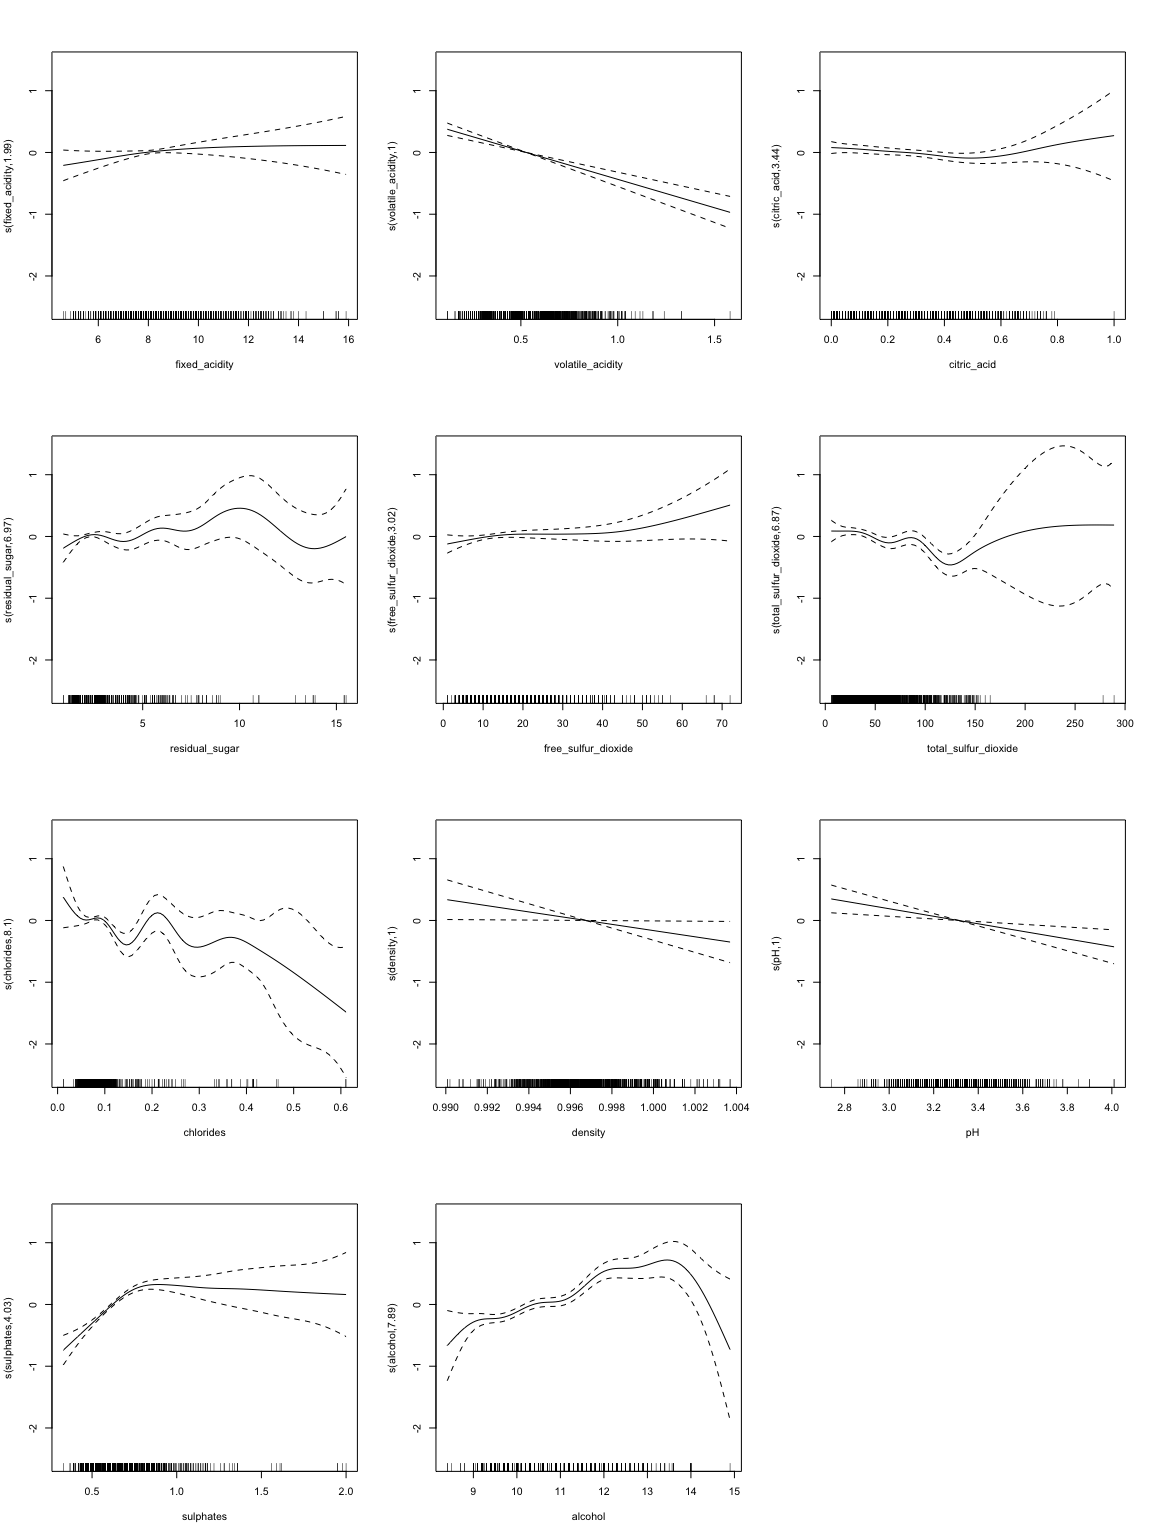
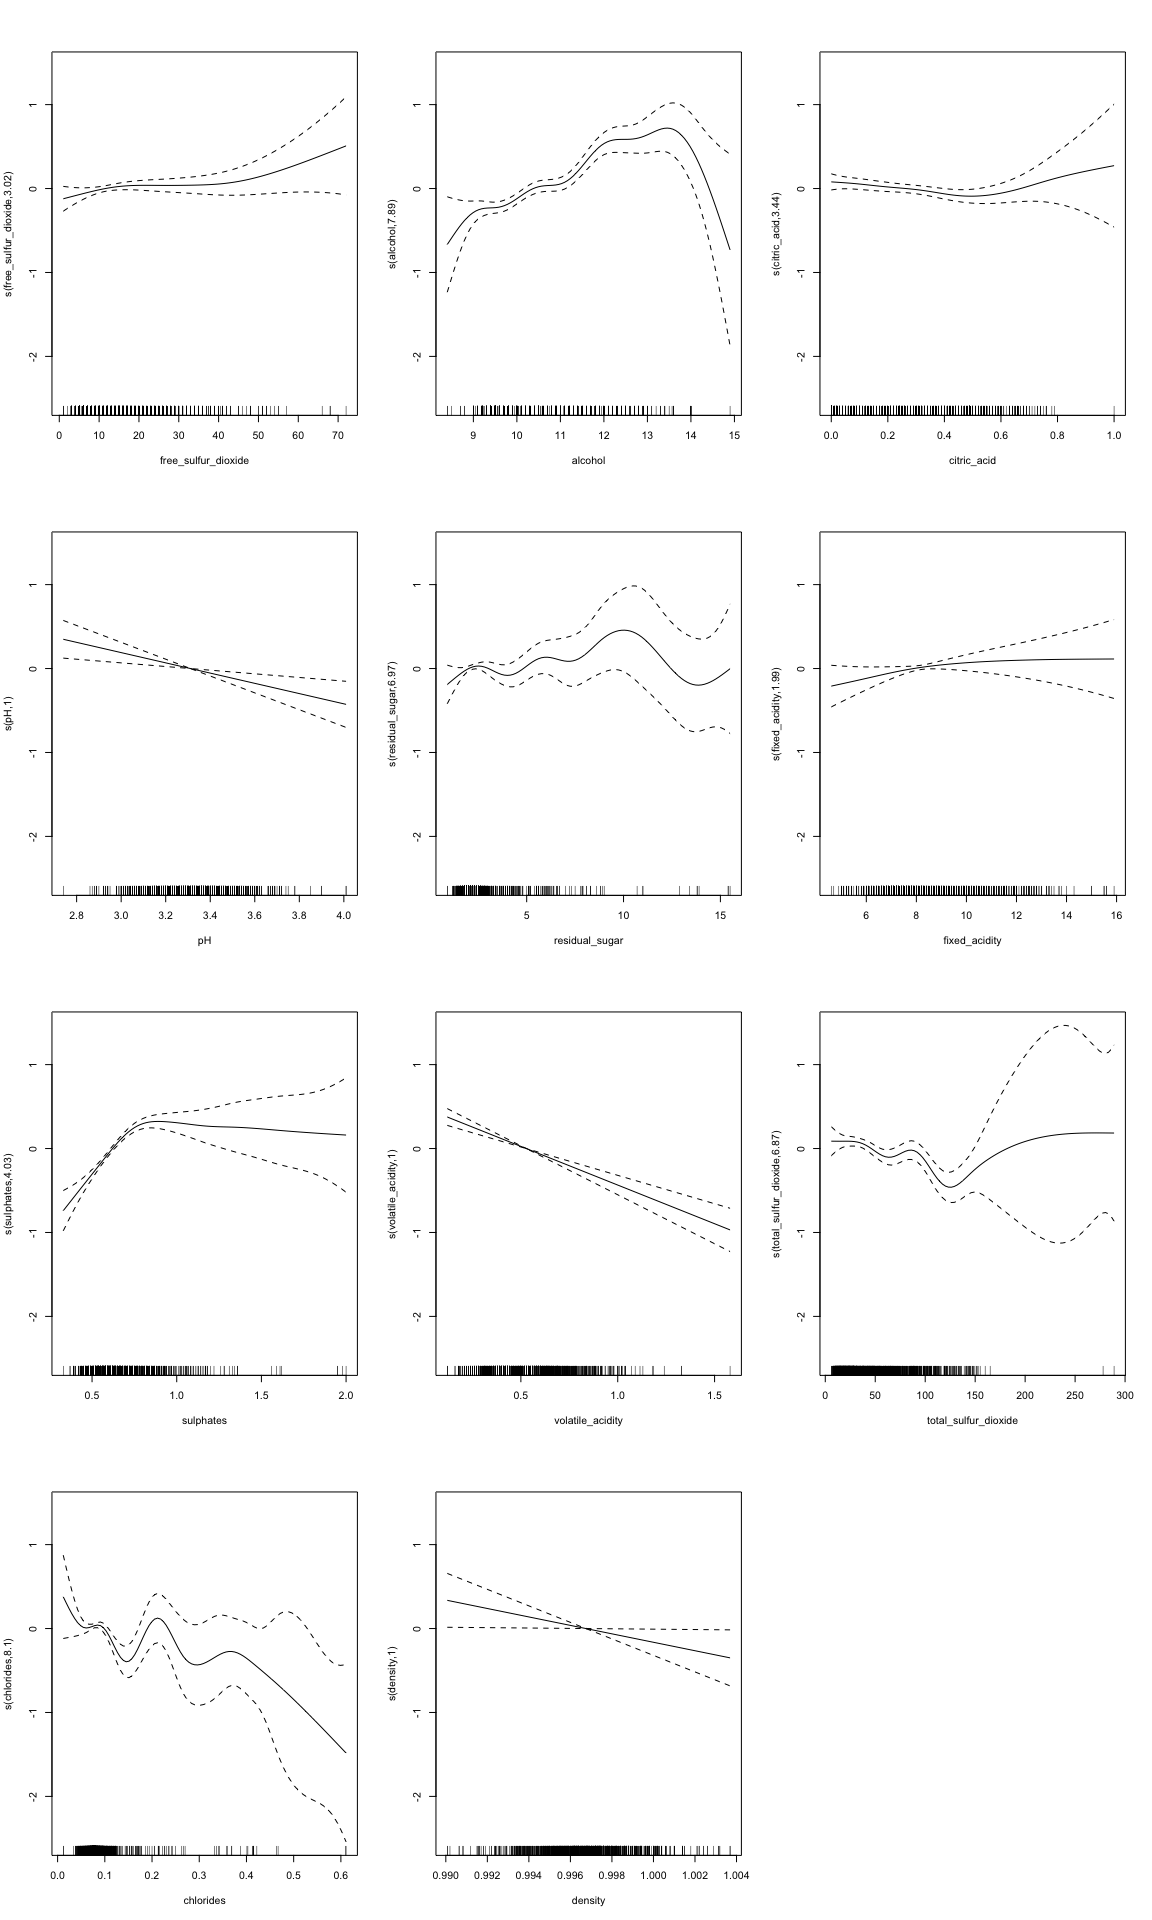
models code part

diff --git a/P8106_MP_xh2395.md b/P8106_MP_xh2395.md
@@ -336,49 +336,27 @@ wine_df1 = wine_df %>%
          free_sulfur_dioxide = `free sulfur dioxide`,
          total_sulfur_dioxide =`total sulfur dioxide`)
 
-gam_fit1 = gam(quality ~ fixed_acidity+volatile_acidity+citric_acid+residual_sugar+free_sulfur_dioxide+total_sulfur_dioxide+chlorides+density+pH+sulphates+alcohol, data = wine_df1)
+full1_X = model.matrix(quality ~ .,wine_df1)[,-1]
+full1_Y = wine_df1$quality
 
-gam_fit2 = gam(quality ~ s(fixed_acidity)+s(volatile_acidity)+s(citric_acid)+s(residual_sugar)+s(free_sulfur_dioxide)+s(total_sulfur_dioxide)+s(chlorides)+s(density)+s(pH)+s(sulphates)+s(alcohol), data = wine_df1)
+gam_fit = train(full1_X, full1_Y,
+                 method = "gam",
+                 tuneGrid = data.frame(method = "GCV.Cp", 
+                                       select = c(TRUE,FALSE)), 
+                 trControl = train_control)
 ```
 
 ### Summary
 
 ``` r
-summary(gam_fit1)
+gam_fit$bestTune
 ```
 
-    ## 
-    ## Family: gaussian 
-    ## Link function: identity 
-    ## 
-    ## Formula:
-    ## quality ~ fixed_acidity + volatile_acidity + citric_acid + residual_sugar + 
-    ##     free_sulfur_dioxide + total_sulfur_dioxide + chlorides + 
-    ##     density + pH + sulphates + alcohol
-    ## 
-    ## Parametric coefficients:
-    ##                        Estimate Std. Error t value Pr(>|t|)    
-    ## (Intercept)           2.197e+01  2.119e+01   1.036   0.3002    
-    ## fixed_acidity         2.499e-02  2.595e-02   0.963   0.3357    
-    ## volatile_acidity     -1.084e+00  1.211e-01  -8.948  < 2e-16 ***
-    ## citric_acid          -1.826e-01  1.472e-01  -1.240   0.2150    
-    ## residual_sugar        1.633e-02  1.500e-02   1.089   0.2765    
-    ## free_sulfur_dioxide   4.361e-03  2.171e-03   2.009   0.0447 *  
-    ## total_sulfur_dioxide -3.265e-03  7.287e-04  -4.480 8.00e-06 ***
-    ## chlorides            -1.874e+00  4.193e-01  -4.470 8.37e-06 ***
-    ## density              -1.788e+01  2.163e+01  -0.827   0.4086    
-    ## pH                   -4.137e-01  1.916e-01  -2.159   0.0310 *  
-    ## sulphates             9.163e-01  1.143e-01   8.014 2.13e-15 ***
-    ## alcohol               2.762e-01  2.648e-02  10.429  < 2e-16 ***
-    ## ---
-    ## Signif. codes:  0 '***' 0.001 '**' 0.01 '*' 0.05 '.' 0.1 ' ' 1
-    ## 
-    ## 
-    ## R-sq.(adj) =  0.356   Deviance explained = 36.1%
-    ## GCV = 0.42309  Scale est. = 0.41992   n = 1599
+    ##   select method
+    ## 2   TRUE GCV.Cp
 
 ``` r
-summary(gam_fit2)
+gam_fit$finalModel
 ```
 
     ## 
@@ -386,40 +364,66 @@ summary(gam_fit2)
     ## Link function: identity 
     ## 
     ## Formula:
-    ## quality ~ s(fixed_acidity) + s(volatile_acidity) + s(citric_acid) + 
-    ##     s(residual_sugar) + s(free_sulfur_dioxide) + s(total_sulfur_dioxide) + 
-    ##     s(chlorides) + s(density) + s(pH) + s(sulphates) + s(alcohol)
+    ## .outcome ~ s(free_sulfur_dioxide) + s(alcohol) + s(citric_acid) + 
+    ##     s(pH) + s(residual_sugar) + s(fixed_acidity) + s(sulphates) + 
+    ##     s(volatile_acidity) + s(total_sulfur_dioxide) + s(chlorides) + 
+    ##     s(density)
+    ## 
+    ## Estimated degrees of freedom:
+    ## 2.935 7.168 4.027 0.783 4.598 1.850 4.223 
+    ## 6.929 6.872 7.485 7.333  total = 55.2 
+    ## 
+    ## GCV score: 0.394785
+
+``` r
+summary(gam_fit)
+```
+
+    ## 
+    ## Family: gaussian 
+    ## Link function: identity 
+    ## 
+    ## Formula:
+    ## .outcome ~ s(free_sulfur_dioxide) + s(alcohol) + s(citric_acid) + 
+    ##     s(pH) + s(residual_sugar) + s(fixed_acidity) + s(sulphates) + 
+    ##     s(volatile_acidity) + s(total_sulfur_dioxide) + s(chlorides) + 
+    ##     s(density)
     ## 
     ## Parametric coefficients:
     ##             Estimate Std. Error t value Pr(>|t|)    
-    ## (Intercept)  5.63602    0.01551   363.3   <2e-16 ***
+    ## (Intercept)  5.63602    0.01544     365   <2e-16 ***
     ## ---
     ## Signif. codes:  0 '***' 0.001 '**' 0.01 '*' 0.05 '.' 0.1 ' ' 1
     ## 
     ## Approximate significance of smooth terms:
-    ##                           edf Ref.df      F  p-value    
-    ## s(fixed_acidity)        1.995  2.560  1.587 0.219529    
-    ## s(volatile_acidity)     1.000  1.000 56.474 9.33e-14 ***
-    ## s(citric_acid)          3.439  4.310  1.584 0.165675    
-    ## s(residual_sugar)       6.965  7.984  1.386 0.207716    
-    ## s(free_sulfur_dioxide)  3.018  3.825  1.550 0.204922    
-    ## s(total_sulfur_dioxide) 6.865  7.697  4.286 7.65e-05 ***
-    ## s(chlorides)            8.099  8.757  3.323 0.000559 ***
-    ## s(density)              1.000  1.000  4.386 0.036401 *  
-    ## s(pH)                   1.000  1.000  9.651 0.001926 ** 
-    ## s(sulphates)            4.029  4.993 29.143  < 2e-16 ***
-    ## s(alcohol)              7.888  8.656 11.137 2.29e-16 ***
+    ##                            edf Ref.df      F  p-value    
+    ## s(free_sulfur_dioxide)  2.9348      9  0.573 0.124101    
+    ## s(alcohol)              7.1676      9  9.953  < 2e-16 ***
+    ## s(citric_acid)          4.0274      9  0.791 0.100577    
+    ## s(pH)                   0.7828      9  0.968 0.000317 ***
+    ## s(residual_sugar)       4.5980      9  0.867 0.107016    
+    ## s(fixed_acidity)        1.8498      9  0.728 0.009892 ** 
+    ## s(sulphates)            4.2230      9 15.909  < 2e-16 ***
+    ## s(volatile_acidity)     6.9289      9  7.711 2.38e-13 ***
+    ## s(total_sulfur_dioxide) 6.8725      9  3.719 5.91e-06 ***
+    ## s(chlorides)            7.4846      9  2.745 0.000576 ***
+    ## s(density)              7.3334      9  1.687 0.023025 *  
     ## ---
     ## Signif. codes:  0 '***' 0.001 '**' 0.01 '*' 0.05 '.' 0.1 ' ' 1
     ## 
-    ## R-sq.(adj) =   0.41   Deviance explained = 42.7%
-    ## GCV = 0.39633  Scale est. = 0.38485   n = 1599
+    ## R-sq.(adj) =  0.416   Deviance explained = 43.5%
+    ## GCV = 0.39479  Scale est. = 0.38116   n = 1599
 
 ## Plot
 
 ``` r
+gam = gam(quality ~ s(free_sulfur_dioxide) + s(alcohol) + s(citric_acid) + 
+    s(pH) + s(residual_sugar) + s(fixed_acidity) + s(sulphates) + 
+    s(volatile_acidity) + s(total_sulfur_dioxide) + s(chlorides) + 
+    s(density), data = wine_df1)
+
 par(mfrow = c(4,3))
-plot(gam_fit2)
+plot(gam)
 ```
 
 <img src="P8106_MP_xh2395_files/figure-gfm/unnamed-chunk-25-1.png" style="display: block; margin: auto;" />
@@ -444,44 +448,40 @@ mars_fit = train(train_X, train_Y,
 mars_fit$bestTune
 ```
 
-    ##   nprune degree
-    ## 7      8      1
+    ##    nprune degree
+    ## 12      4      2
 
 ``` r
 coef(mars_fit$finalModel)
 ```
 
-    ##                 (Intercept)             h(12.1-alcohol) 
-    ##                 5.575440225                -0.315275868 
-    ##           h(0.76-sulphates)    h(volatile acidity-0.84) 
-    ##                -2.129422133                -1.804382736 
-    ##    h(0.84-volatile acidity) h(133-total sulfur dioxide) 
-    ##                 0.634261092                 0.002306367 
-    ##                  h(3.66-pH)          h(0.143-chlorides) 
-    ##                 0.628772944                 4.494882307
+    ##                                            (Intercept) 
+    ##                                             6.00559962 
+    ##                                        h(12.1-alcohol) 
+    ##                                            -0.34227883 
+    ## h(0.84-volatile acidity) * h(126-total sulfur dioxide) 
+    ##                                             0.01489138 
+    ##         h(65-total sulfur dioxide) * h(0.76-sulphates) 
+    ##                                            -0.04808887
 
 ``` r
 summary(mars_fit)
 ```
 
     ## Call: earth(x=matrix[1200,11], y=c(5,5,5,6,5,5,7...), keepxy=TRUE,
-    ##             degree=1, nprune=8)
+    ##             degree=2, nprune=4)
     ## 
-    ##                             coefficients
-    ## (Intercept)                    5.5754402
-    ## h(0.84-volatile acidity)       0.6342611
-    ## h(volatile acidity-0.84)      -1.8043827
-    ## h(0.143-chlorides)             4.4948823
-    ## h(133-total sulfur dioxide)    0.0023064
-    ## h(3.66-pH)                     0.6287729
-    ## h(0.76-sulphates)             -2.1294221
-    ## h(12.1-alcohol)               -0.3152759
+    ##                                                        coefficients
+    ## (Intercept)                                               6.0055996
+    ## h(12.1-alcohol)                                          -0.3422788
+    ## h(0.84-volatile acidity) * h(126-total sulfur dioxide)    0.0148914
+    ## h(65-total sulfur dioxide) * h(0.76-sulphates)           -0.0480889
     ## 
-    ## Selected 8 of 21 terms, and 6 of 11 predictors
+    ## Selected 4 of 23 terms, and 4 of 11 predictors
     ## Termination condition: Reached nk 23
-    ## Importance: alcohol, sulphates, `volatileacidity`, chlorides, pH, ...
-    ## Number of terms at each degree of interaction: 1 7 (additive model)
-    ## GCV 0.4108882    RSS 480.8162    GRSq 0.3807721    RSq 0.3951483
+    ## Importance: alcohol, sulphates, `volatileacidity`, ...
+    ## Number of terms at each degree of interaction: 1 1 2
+    ## GCV 0.4161648    RSS 492.3481    GRSq 0.3728199    RSq 0.3806417
 
 ### Plot
 
@@ -498,6 +498,7 @@ resamp = resamples(list(lm = lm_fit,
                         ridge = ridge_fit,
                         lasso = lasso_fit,
                         pcr = pcr_fit,
+                        gam = gam_fit,
                         mars = mars_fit))
 
 summary(resamp)
@@ -507,7 +508,7 @@ summary(resamp)
     ## Call:
     ## summary.resamples(object = resamp)
     ## 
-    ## Models: lm, ridge, lasso, pcr, mars 
+    ## Models: lm, ridge, lasso, pcr, gam, mars 
     ## Number of resamples: 10 
     ## 
     ## MAE 
@@ -516,7 +517,8 @@ summary(resamp)
     ## ridge 0.4534667 0.4832119 0.4903573 0.5029094 0.5155260 0.5952779    0
     ## lasso 0.4591527 0.4707148 0.4900415 0.5033725 0.5284439 0.5858150    0
     ## pcr   0.4364074 0.4775725 0.4986497 0.5018887 0.5150067 0.5757639    0
-    ## mars  0.4751127 0.4851839 0.4894693 0.5003542 0.5160513 0.5495628    0
+    ## gam   0.4580594 0.4837320 0.4944497 0.5005825 0.5148585 0.5578730    0
+    ## mars  0.4401873 0.4776442 0.4987160 0.5004253 0.5267184 0.5586196    0
     ## 
     ## RMSE 
     ##            Min.   1st Qu.    Median      Mean   3rd Qu.      Max. NA's
@@ -524,7 +526,8 @@ summary(resamp)
     ## ridge 0.5906911 0.6309376 0.6499327 0.6531035 0.6717569 0.7400069    0
     ## lasso 0.5790587 0.6133455 0.6333915 0.6515125 0.6842411 0.7574095    0
     ## pcr   0.5848335 0.6080756 0.6518623 0.6526109 0.6975966 0.7223157    0
-    ## mars  0.5983057 0.6327709 0.6490922 0.6513287 0.6602516 0.7281447    0
+    ## gam   0.6019513 0.6246506 0.6403150 0.6432048 0.6616430 0.7017351    0
+    ## mars  0.5698264 0.6199849 0.6338825 0.6433405 0.6791219 0.7237716    0
     ## 
     ## Rsquared 
     ##            Min.   1st Qu.    Median      Mean   3rd Qu.      Max. NA's
@@ -532,7 +535,8 @@ summary(resamp)
     ## ridge 0.2604142 0.3098512 0.3667993 0.3595150 0.4166652 0.4284589    0
     ## lasso 0.2889841 0.3386261 0.3652842 0.3632421 0.3891152 0.4203412    0
     ## pcr   0.2202585 0.3613208 0.3802730 0.3632000 0.3925286 0.4118652    0
-    ## mars  0.2862954 0.3277248 0.3563591 0.3629287 0.3694500 0.4680199    0
+    ## gam   0.3182767 0.3427707 0.3611970 0.3670815 0.3891866 0.4361561    0
+    ## mars  0.3041553 0.3266000 0.3694167 0.3771093 0.4234499 0.4952056    0
 
 ``` r
 bwplot(resamp, metric = "RMSE")
